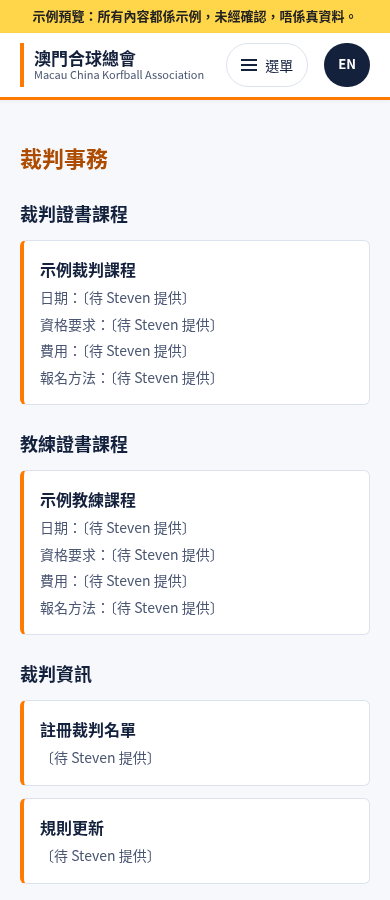
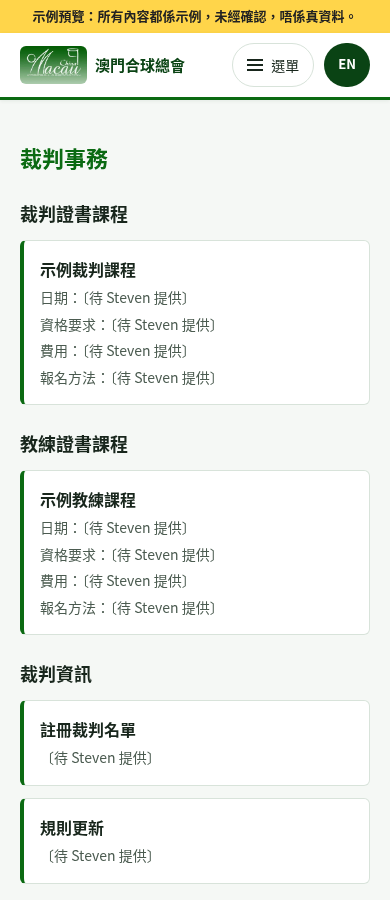
Preview: switch whole site to MCKA green palette (style-green-spec, Steven picked option 2)

diff --git a/preview/site/assets/style.css b/preview/site/assets/style.css
@@ -1,11 +1,11 @@
 *{box-sizing:border-box;margin:0;padding:0}
-/* 淺色版（Steven 2026-10-03 要求由深色改淺色）。橙字喺淺底一律用 --accent-text #AD4C00（規格：#FF7A00 配白底對比唔夠）。 */
-:root{--bg:#F6F8FB;--surface:#FFFFFF;--hero:#EEF2F8;--hero-2:#E6ECF5;--navy:#14213D;--line:#DDE3EE;--photo:#D5DDEA;--accent:#FF7A00;--accent-text:#AD4C00;--text:#14213D;--text-2:#4A5672;--sample:#FFD54A}
+/* 總會綠淺色版（Steven 2026-10-04 揀方案二，跟 design/style-green-spec.md）。綠底一律白字（--on-accent）。--navy 而家係深綠 #0A4314。 */
+:root{--bg:#F5F8F5;--surface:#FFFFFF;--hero:#EAF3EA;--hero-2:#E1EDE2;--navy:#0A4314;--line:#D8E3DA;--photo:#CFDDD2;--accent:#0B6A12;--accent-text:#0B6A12;--on-accent:#FFFFFF;--text:#18261C;--text-2:#4B5B50;--sample:#FFD54A}
 body{background:var(--bg);color:var(--text);font-family:"Noto Sans TC","Noto Sans CJK TC",sans-serif;font-weight:400;font-size:16px;line-height:1.6}
 a{color:inherit;text-decoration:none}
 .wrap{max-width:1040px;margin:0 auto;padding:0 20px}
 .demo{background:var(--sample);color:#222;text-align:center;font-size:13px;font-weight:700;padding:6px}
-header{background:var(--surface);border-bottom:3px solid var(--accent);position:sticky;top:0;z-index:5;box-shadow:0 1px 4px rgba(20,33,61,.06)}
+header{background:var(--surface);border-bottom:3px solid var(--accent);position:sticky;top:0;z-index:5;box-shadow:0 1px 4px rgba(10,67,20,.08)}
 .bar{display:flex;align-items:center;gap:16px;min-height:64px;flex-wrap:wrap}
 /* 官方標誌（Steven 2026-10-03 提供，design/logo/official/）+ 中英文字名 */
 .brand{display:flex;align-items:center;gap:10px;min-height:44px;line-height:1.2;color:var(--navy)}
@@ -16,15 +16,15 @@ nav{display:flex;gap:20px;flex:1;font-size:15px;align-items:center}
 nav a{color:var(--text-2);padding:10px 0;white-space:nowrap;border-bottom:2px solid transparent}
 nav a.on,nav a:hover{color:var(--accent-text);border-bottom-color:var(--accent)}
 nav a.cta{color:var(--accent-text);border:1.5px solid var(--accent-text);border-radius:6px;padding:7px 14px;line-height:1.3;font-weight:700}
-nav a.cta:hover,nav a.cta.on{background:var(--accent);border-color:var(--accent);color:var(--navy)}
+nav a.cta:hover,nav a.cta.on{background:var(--accent);border-color:var(--accent);color:var(--on-accent)}
 .lang{background:var(--navy);color:#fff;font-weight:700;padding:0 14px;min-height:44px;display:flex;align-items:center;border-radius:22px;font-size:13px;margin-left:auto}
 .menu-toggle{display:none}.menu-btn{display:none}
 .hero{background:repeating-linear-gradient(-55deg,var(--hero) 0 22px,var(--hero-2) 22px 44px);padding:72px 0;border-bottom:1px solid var(--line)}
-.hero h1{font-size:56px;font-weight:700;line-height:1.15;color:var(--navy)}
+.hero h1{font-size:56px;font-weight:700;line-height:1.15;color:var(--text)}
 .en .hero h1{text-transform:uppercase}
 .hero h1 em{color:var(--accent-text);font-style:normal}
 .lead{font-size:20px;font-weight:700;margin-top:10px}.sub{color:var(--text-2);margin:6px 0 24px}
-.btn{display:inline-block;background:var(--accent);color:var(--navy);font-weight:700;padding:12px 22px;border-radius:6px}
+.btn{display:inline-block;background:var(--accent);color:var(--on-accent);font-weight:700;padding:12px 22px;border-radius:6px}
 .en .btn{text-transform:uppercase}
 .sec{padding:40px 20px}
 .sec h2{color:var(--accent-text);font-size:26px;margin-bottom:16px}
@@ -40,7 +40,7 @@ nav a.cta:hover,nav a.cta.on{background:var(--accent);border-color:var(--accent)
 .photos div{background:var(--photo);border-radius:4px;aspect-ratio:4/3}
 .tbl{overflow-x:auto}table{width:100%;border-collapse:collapse;min-width:560px;background:var(--surface)}
 th{background:var(--navy);color:#fff;text-align:left;padding:10px}td{padding:10px;border-top:1px solid var(--line)}
-footer{background:var(--navy);color:#C9D2E3;padding:24px 0;font-size:13px;margin-top:24px}
+footer{background:var(--navy);color:#C9DCCB;padding:24px 0;font-size:13px;margin-top:24px}
 @media(max-width:760px){
  .menu-btn{display:flex;align-items:center;gap:8px;min-height:44px;padding:0 14px;border:1px solid var(--line);border-radius:22px;font-size:14px;cursor:pointer;margin-left:auto}
  .menu-btn span,.menu-btn span::before,.menu-btn span::after{display:block;width:16px;height:2px;background:var(--text);position:relative}

diff --git a/preview/build.py b/preview/build.py
@@ -1,4 +1,4 @@
-# 示例預覽生成器：風格 B 淺色版（跟 design/style-B-spec.md，2026-10-03 Steven 要求改淺色）。所有內容都係示例或者待提供，唔係真資料。
+# 示例預覽生成器：總會綠淺色版（顏色跟 design/style-green-spec.md，2026-10-04 Steven 揀；字體同版面跟 design/style-B-spec.md）。所有內容都係示例或者待提供，唔係真資料。
 # 主菜單跟 Steven 2026-10-03 指定：本會簡介、賽事資料、裁判事務、最新消息、下載區、聯繫我們（首頁由標誌入）。
 import os, shutil
 PAGES = ["about","competitions","referees","news","downloads","contact"]
@@ -83,13 +83,13 @@ def page(lang, p):
 <footer><div class="wrap">© {ORG[lang]} · {TBD[lang]}</div></footer></body></html>'''
 
 CSS = '''*{box-sizing:border-box;margin:0;padding:0}
-/* 淺色版（Steven 2026-10-03 要求由深色改淺色）。橙字喺淺底一律用 --accent-text #AD4C00（規格：#FF7A00 配白底對比唔夠）。 */
-:root{--bg:#F6F8FB;--surface:#FFFFFF;--hero:#EEF2F8;--hero-2:#E6ECF5;--navy:#14213D;--line:#DDE3EE;--photo:#D5DDEA;--accent:#FF7A00;--accent-text:#AD4C00;--text:#14213D;--text-2:#4A5672;--sample:#FFD54A}
+/* 總會綠淺色版（Steven 2026-10-04 揀方案二，跟 design/style-green-spec.md）。綠底一律白字（--on-accent）。--navy 而家係深綠 #0A4314。 */
+:root{--bg:#F5F8F5;--surface:#FFFFFF;--hero:#EAF3EA;--hero-2:#E1EDE2;--navy:#0A4314;--line:#D8E3DA;--photo:#CFDDD2;--accent:#0B6A12;--accent-text:#0B6A12;--on-accent:#FFFFFF;--text:#18261C;--text-2:#4B5B50;--sample:#FFD54A}
 body{background:var(--bg);color:var(--text);font-family:"Noto Sans TC","Noto Sans CJK TC",sans-serif;font-weight:400;font-size:16px;line-height:1.6}
 a{color:inherit;text-decoration:none}
 .wrap{max-width:1040px;margin:0 auto;padding:0 20px}
 .demo{background:var(--sample);color:#222;text-align:center;font-size:13px;font-weight:700;padding:6px}
-header{background:var(--surface);border-bottom:3px solid var(--accent);position:sticky;top:0;z-index:5;box-shadow:0 1px 4px rgba(20,33,61,.06)}
+header{background:var(--surface);border-bottom:3px solid var(--accent);position:sticky;top:0;z-index:5;box-shadow:0 1px 4px rgba(10,67,20,.08)}
 .bar{display:flex;align-items:center;gap:16px;min-height:64px;flex-wrap:wrap}
 /* 官方標誌（Steven 2026-10-03 提供，design/logo/official/）+ 中英文字名 */
 .brand{display:flex;align-items:center;gap:10px;min-height:44px;line-height:1.2;color:var(--navy)}
@@ -100,15 +100,15 @@ nav{display:flex;gap:20px;flex:1;font-size:15px;align-items:center}
 nav a{color:var(--text-2);padding:10px 0;white-space:nowrap;border-bottom:2px solid transparent}
 nav a.on,nav a:hover{color:var(--accent-text);border-bottom-color:var(--accent)}
 nav a.cta{color:var(--accent-text);border:1.5px solid var(--accent-text);border-radius:6px;padding:7px 14px;line-height:1.3;font-weight:700}
-nav a.cta:hover,nav a.cta.on{background:var(--accent);border-color:var(--accent);color:var(--navy)}
+nav a.cta:hover,nav a.cta.on{background:var(--accent);border-color:var(--accent);color:var(--on-accent)}
 .lang{background:var(--navy);color:#fff;font-weight:700;padding:0 14px;min-height:44px;display:flex;align-items:center;border-radius:22px;font-size:13px;margin-left:auto}
 .menu-toggle{display:none}.menu-btn{display:none}
 .hero{background:repeating-linear-gradient(-55deg,var(--hero) 0 22px,var(--hero-2) 22px 44px);padding:72px 0;border-bottom:1px solid var(--line)}
-.hero h1{font-size:56px;font-weight:700;line-height:1.15;color:var(--navy)}
+.hero h1{font-size:56px;font-weight:700;line-height:1.15;color:var(--text)}
 .en .hero h1{text-transform:uppercase}
 .hero h1 em{color:var(--accent-text);font-style:normal}
 .lead{font-size:20px;font-weight:700;margin-top:10px}.sub{color:var(--text-2);margin:6px 0 24px}
-.btn{display:inline-block;background:var(--accent);color:var(--navy);font-weight:700;padding:12px 22px;border-radius:6px}
+.btn{display:inline-block;background:var(--accent);color:var(--on-accent);font-weight:700;padding:12px 22px;border-radius:6px}
 .en .btn{text-transform:uppercase}
 .sec{padding:40px 20px}
 .sec h2{color:var(--accent-text);font-size:26px;margin-bottom:16px}
@@ -124,7 +124,7 @@ nav a.cta:hover,nav a.cta.on{background:var(--accent);border-color:var(--accent)
 .photos div{background:var(--photo);border-radius:4px;aspect-ratio:4/3}
 .tbl{overflow-x:auto}table{width:100%;border-collapse:collapse;min-width:560px;background:var(--surface)}
 th{background:var(--navy);color:#fff;text-align:left;padding:10px}td{padding:10px;border-top:1px solid var(--line)}
-footer{background:var(--navy);color:#C9D2E3;padding:24px 0;font-size:13px;margin-top:24px}
+footer{background:var(--navy);color:#C9DCCB;padding:24px 0;font-size:13px;margin-top:24px}
 @media(max-width:760px){
  .menu-btn{display:flex;align-items:center;gap:8px;min-height:44px;padding:0 14px;border:1px solid var(--line);border-radius:22px;font-size:14px;cursor:pointer;margin-left:auto}
  .menu-btn span,.menu-btn span::before,.menu-btn span::after{display:block;width:16px;height:2px;background:var(--text);position:relative}

diff --git a/decisions-log.md b/decisions-log.md
@@ -27,3 +27,4 @@
 - 2026-10-03：Steven 提供總會官方標誌（綠底白字「Macau China Korfball Association」）；網站管家刪走 EXIF 後存喺 `design/logo/official/`，示例網站頂欄改用官方標誌加中文名（手機版收細、窄屏只顯示標誌），英文名同標誌一致，即係 Macau China Korfball Association（Steven 提供）。
 - 2026-10-03：設計師將總會官方 logo 重製成向量清晰版（`design/logo/official/web/`），主體照原圖描，底行英文細字用 Michroma 重排；出深藍、綠、白三個單色版同 600／1200px PNG，並出頂欄配色兩個方案（保留深藍橙／轉總會綠）。未換上網站，等 Steven 批准（設計師）。
 - 2026-10-04：Steven 揀咗方案二（總會綠）。設計師出 `design/style-green-spec.md` 同 `palette-green.png`：主色 #0B6A12、深綠 #0A4314、正文 #18261C、次要字 #4B5B50、淺綠底色；全部對比過 AA；綠底一律白字；首頁大標題改用正文色令「合球」突出；橙色同深藍停用。另加 `logo/official/web/mcka-logo-badge-green.svg`（網站綠底白字版，未批）。頂欄暫時照用官方原圖（Steven 決定，設計師執行）。
+- 2026-10-04：跟 Steven 揀嘅方案二（GrokBot Manager 記錄），網站管家按設計師 `design/style-green-spec.md` 將示例網站全站轉做總會綠：主色 #0B6A12、深綠 #0A4314、綠底白字、首頁大標題用正文色、頁尾字 #C9DCCB；橙色同深藍已全部拎走。頂欄繼續用官方原圖 logo（向量版等 Steven 批）。截圖已更新，等 GrokBot Manager 審批（Steven 決定）。
